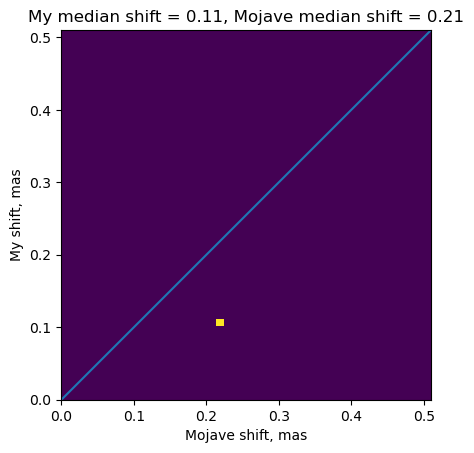
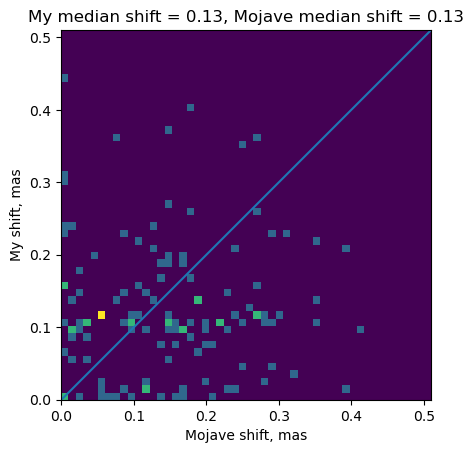
fix couple minor bugs

diff --git a/main.py b/main.py
@@ -226,7 +226,7 @@ if __name__ == "__main__":
     freqs = [8.1, 8.4, 12.1, 15.4]
     freqs = np.sort(np.array(freqs))
     
-    with open("sourse_date_list_totest.txt") as f:
+    with open("sourse_date_list.txt") as f:
         lines = f.readlines()
     
     core_shifts = {'sourse':[],
@@ -268,18 +268,17 @@ if __name__ == "__main__":
             if freqs[i] != 15.4:
                 #core_shifts['shift_dec_{}'.format(freqs[i]).replace('.', '')].append(shift_arr[0]*mapsize[1])
                 #core_shifts['shift_ra_{}'.format(freqs[i]).replace('.', '')].append(shift_arr[1]*mapsize[1])
-                core_shifts['shift_dec_{}'.format(freqs[i]).replace('.', '')].append(cores[i]['dec'] 
-                                                                                     + shift_arr[0]*mapsize[1]-cores[-1]['dec'])
-                core_shifts['shift_ra_{}'.format(freqs[i]).replace('.', '')].append(cores[i]['ra'] 
-                                                                                     + shift_arr[1]*mapsize[1]-cores[-1]['ra'])
-                
-                
+                core_shifts['shift_dec_{}'.format(freqs[i]).replace('.', '')].append(-cores[i]['dec'] 
+                                                                                     -shift_arr[0]*mapsize[1]+cores[-1]['dec'])
+                core_shifts['shift_ra_{}'.format(freqs[i]).replace('.', '')].append(-cores[i]['ra'] 
+                                                                                     +shift_arr[1]*mapsize[1]+cores[-1]['ra'])
+        
+        beam = beams[-1]
         npixels_beam = np.pi * beam[0] * beam[1] / (4 * np.log(2) * mapsize[1] ** 2)
         spec_ind_map = get_spec_ind(imgs, freqs, npixels_beam)
 
         # plot spectral index map
         img_toplot = imgs[-1]
-        beam = beams[0]
         std = find_image_std(img_toplot, npixels_beam)
         blc, trc = find_bbox(img_toplot, level=5*std, min_maxintensity_mjyperbeam=20*std,
                             min_area_pix=2*npixels_beam, delta=10)
